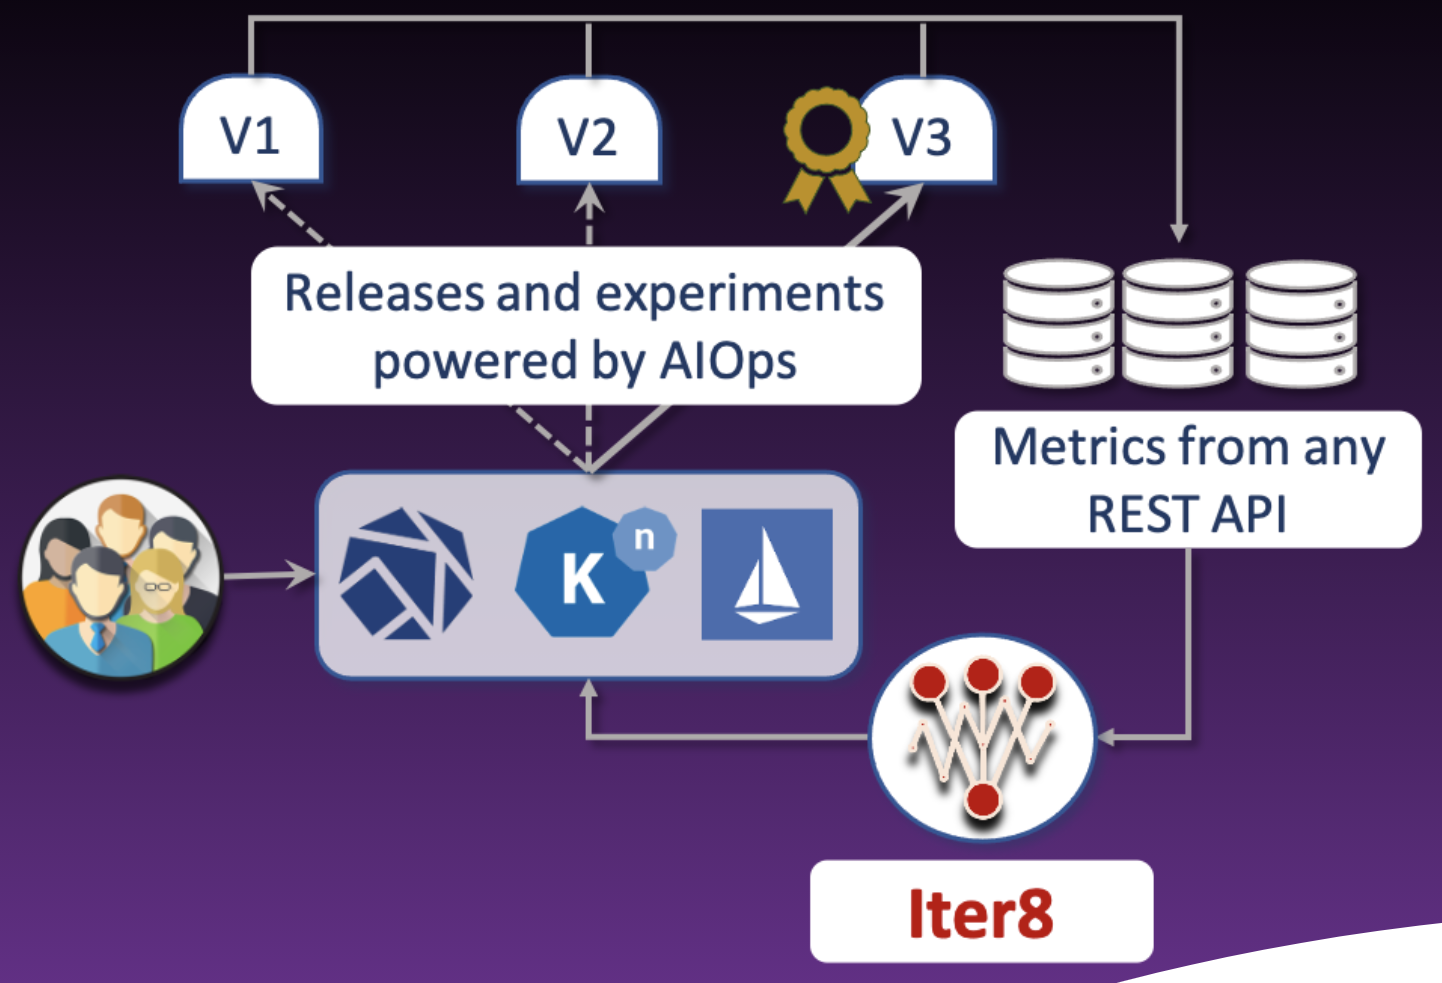
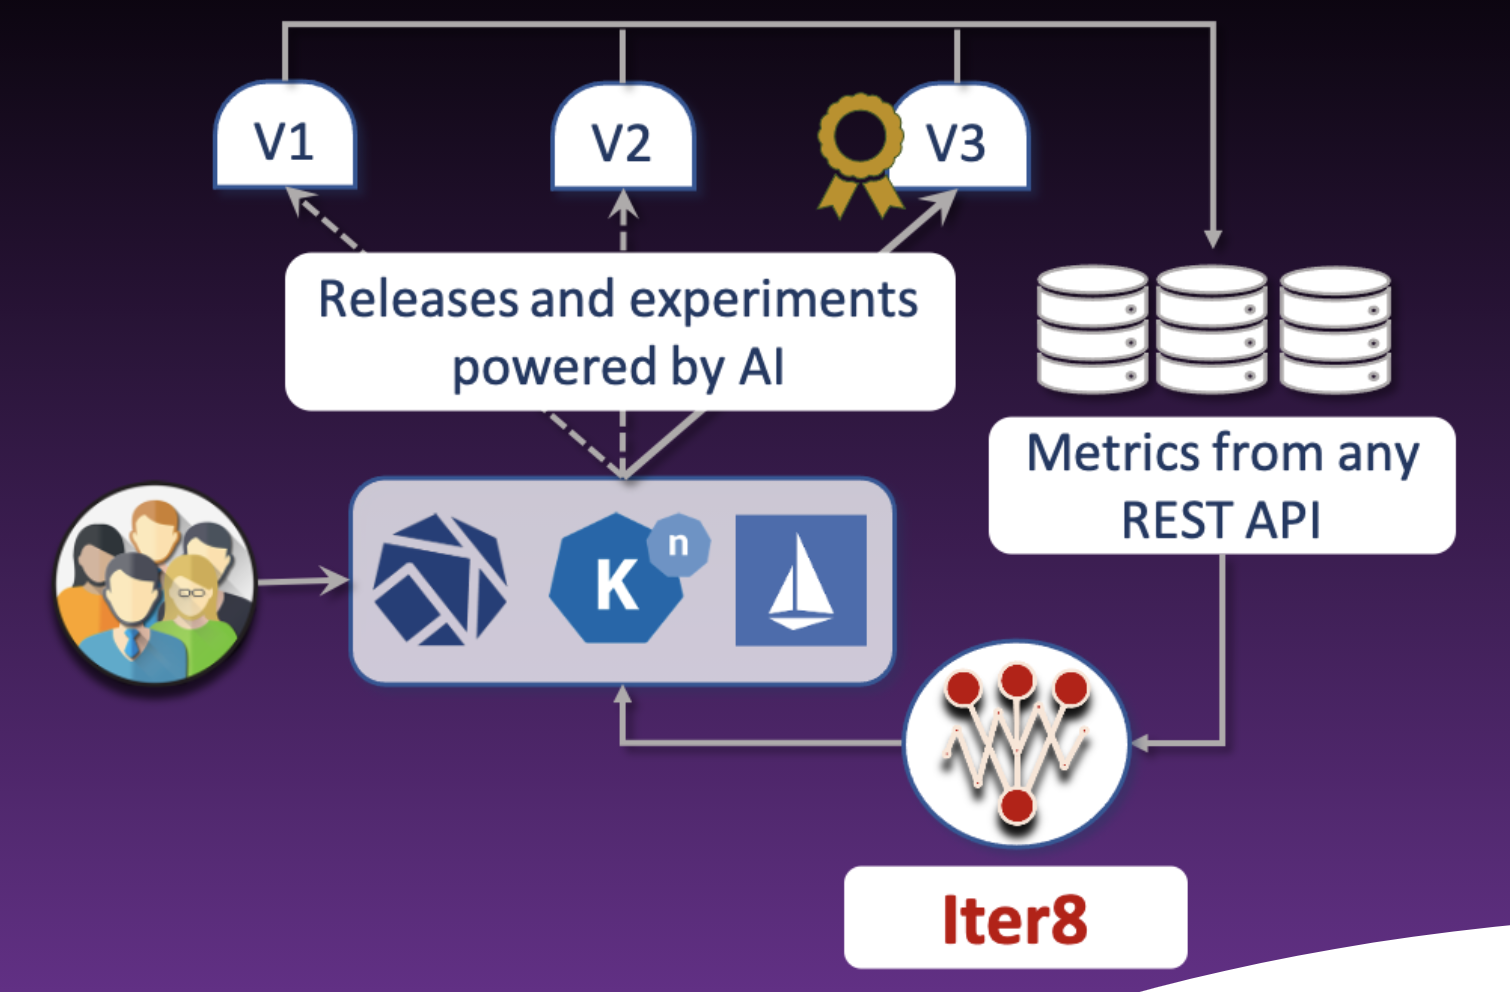
landing page + slack

Changed region(s): [[0.0, 0.0, 0.9986, 1.0], [0.9362, 0.9156, 1.0, 0.9461], [0.4057, 0.7019, 0.4369, 0.763]]

diff --git a/mkdocs/src/overrides/main.html b/mkdocs/src/overrides/main.html
@@ -38,8 +38,8 @@
   <meta property="og:url" content="{{ page.canonical_url }}" />
   <meta property="og:image" content="https://iter8.tools/assets/images/banner.png" />
   <meta property="og:image:type" content="image/png" />
-  <meta property="og:image:width" content="1442" />
-  <meta property="og:image:height" content="983" />
+  <meta property="og:image:width" content="1510" />
+  <meta property="og:image:height" content="992" />
 
   <!-- Twitter meta tags -->
   <meta name="twitter:card" content="summary_large_image" />
@@ -58,11 +58,13 @@
 
 <!-- Announcement bar -->
 {% block announce %}
-<strong>Iter8's</strong> upcoming presentation at <a href="https://sched.co/iE2l">KubeCon + CloudNativeCon Europe 2021</a>. For more updates and support, 
+<strong>Iter8</strong> at <a href="https://calendar.google.com/calendar/event?eid=NWZpdWVzcTVkcjRwazRxNnRtcmF1dDV0YW9fMjAyMTAzMjRUMTYzMDAwWiBrbmF0aXZlLnRlYW1fOXE4M2JnMDdxczViOXJyc2xwNWpvcjRsNnNAZw&ctz=GMT-04:00">Knative Community Meetup</a>.
+
+<strong>Iter8</strong> at <a href="https://sched.co/iE2l">KubeCon + CloudNativeCon Europe 2021</a>. For more updates and support, 
     <a href="https://iter8-tools.slack.com">
       join <strong>Iter8</strong> workspace on <span class="twemoji">
       {% include ".icons/fontawesome/brands/slack.svg" %} </span>
-      <strong>slack</strong>
+      slack.
     </a>
 {% endblock %}
 

diff --git a/mkdocs/src/overrides/home.html b/mkdocs/src/overrides/home.html
@@ -77,7 +77,7 @@
 
         <!-- Hero content -->
         <div class="tx-hero__content">
-          <h1>AIOps platform for cloud native release automation</h2>
+          <h1>Cloud Native Release Automation and Experimentation Platform</h2>
 
           <h2><strong>Optimize</strong> business metrics. <strong>Guarantee</strong> SLOs.</h2> 
           <h2><strong>Automate</strong> progressive  delivery, validation, and promotion/rollback of apps/ML models.</h2>
@@ -88,7 +88,7 @@
             title="Quick start in 5 minutes"
             class="md-button md-button--primary"
           >
-            Quick start in 5 minutes
+            Quick start in 5 mins
           </a>
         </div>
       </div>
